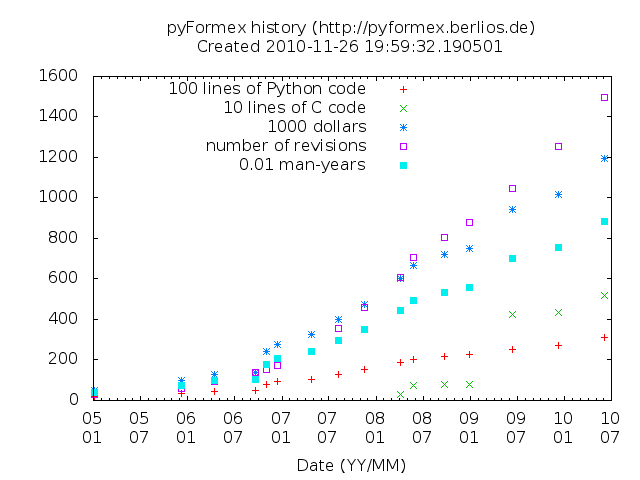
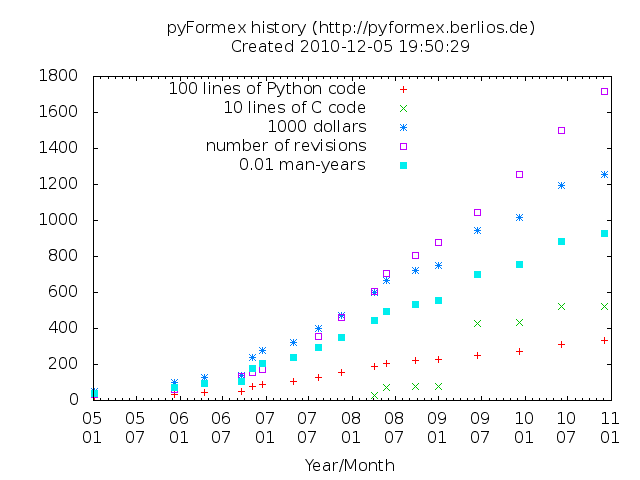
Bump version after release

diff --git a/sloc.py b/sloc.py
@@ -13,7 +13,7 @@ from pyformex.utils import runCommand
 
 import os,sys,commands,datetime
 
-now = datetime.datetime.now()
+now = datetime.datetime.now().replace(microsecond=0).isoformat(' ')
 print now
 
 curdir = os.path.dirname(__file__)
@@ -117,7 +117,7 @@ set key top left
 set xdata time
 set timefmt "%s"
 set format x "%s"
-set xlabel "Date (YY/MM)"
+set xlabel "Year/Month"
 #set ylabel "revision number"
 #set yrange [0:1.2]
 plot """ % (outfile,now,'%Y-%m-%d','%y\\n%m')

diff --git a/sphinx/conf.py b/sphinx/conf.py
@@ -58,9 +58,9 @@ copyright = '2010, Benedict Verhegghe'
 # built documents.
 #
 # The short X.Y version.
-version = '0.8.3'
+version = '0.8.4'
 # The full version, including alpha/beta/rc tags.
-release = '0.8.3'
+release = '0.8.4-a1'
 
 # The language for content autogenerated by Sphinx. Refer to documentation
 # for a list of supported languages.

diff --git a/setup.py b/setup.py
@@ -103,7 +103,7 @@ files.
 
 setup(cmdclass={'build_ext': build_ext,'install':install},
       name='pyformex',
-      version='0.8.3',
+      version='0.8.4-a1',
       description='A tool to generate and manipulate complex 3D geometries.',
       long_description="""
 pyFormex is a tool for generating, manipulating and operating on 

diff --git a/pyformex/__init__.py b/pyformex/__init__.py
@@ -27,7 +27,7 @@
 This module initializes the pyFormex global variables and
 defines a few essential functions.
 """
-__version__ = "0.8.3"
+__version__ = "0.8.4-a1"
 __revision__ = ""
 Version = 'pyFormex %s' % __version__
 Copyright = 'Copyright (C) 2004-2010 Benedict Verhegghe'
